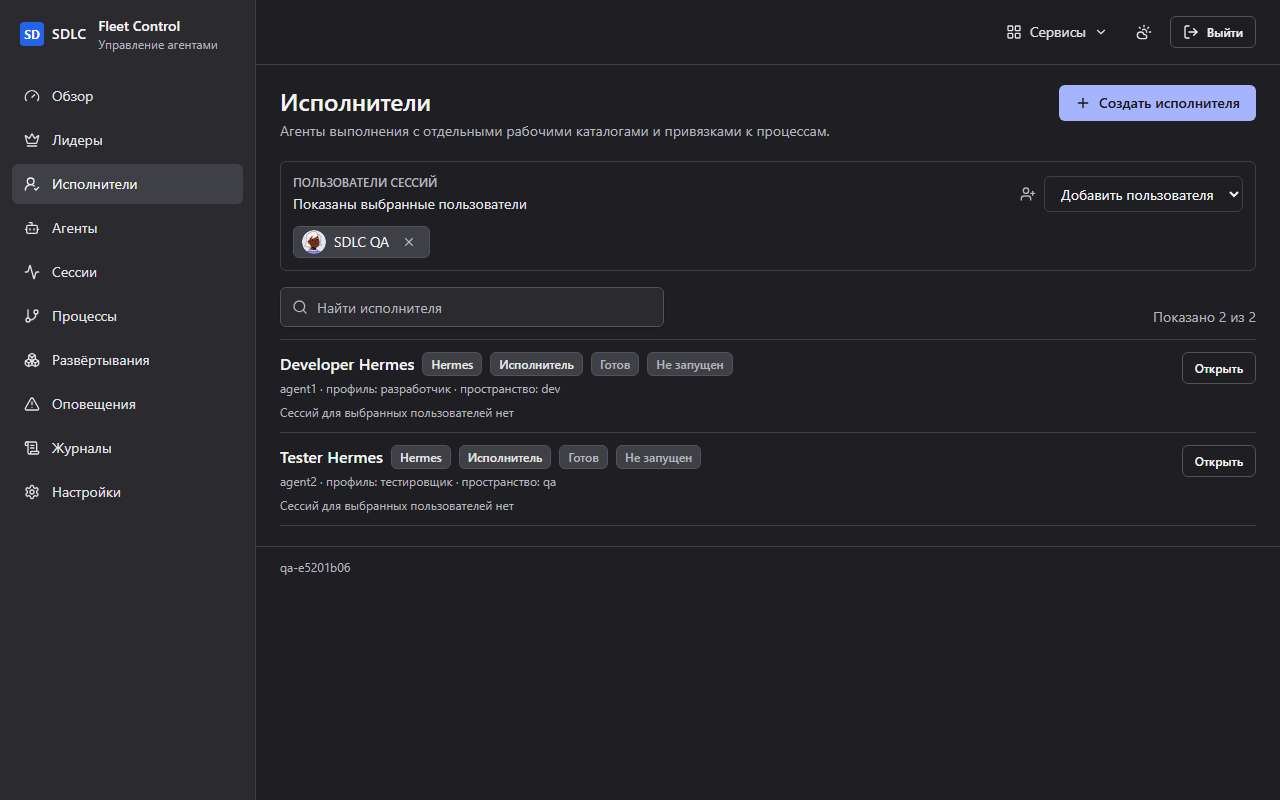
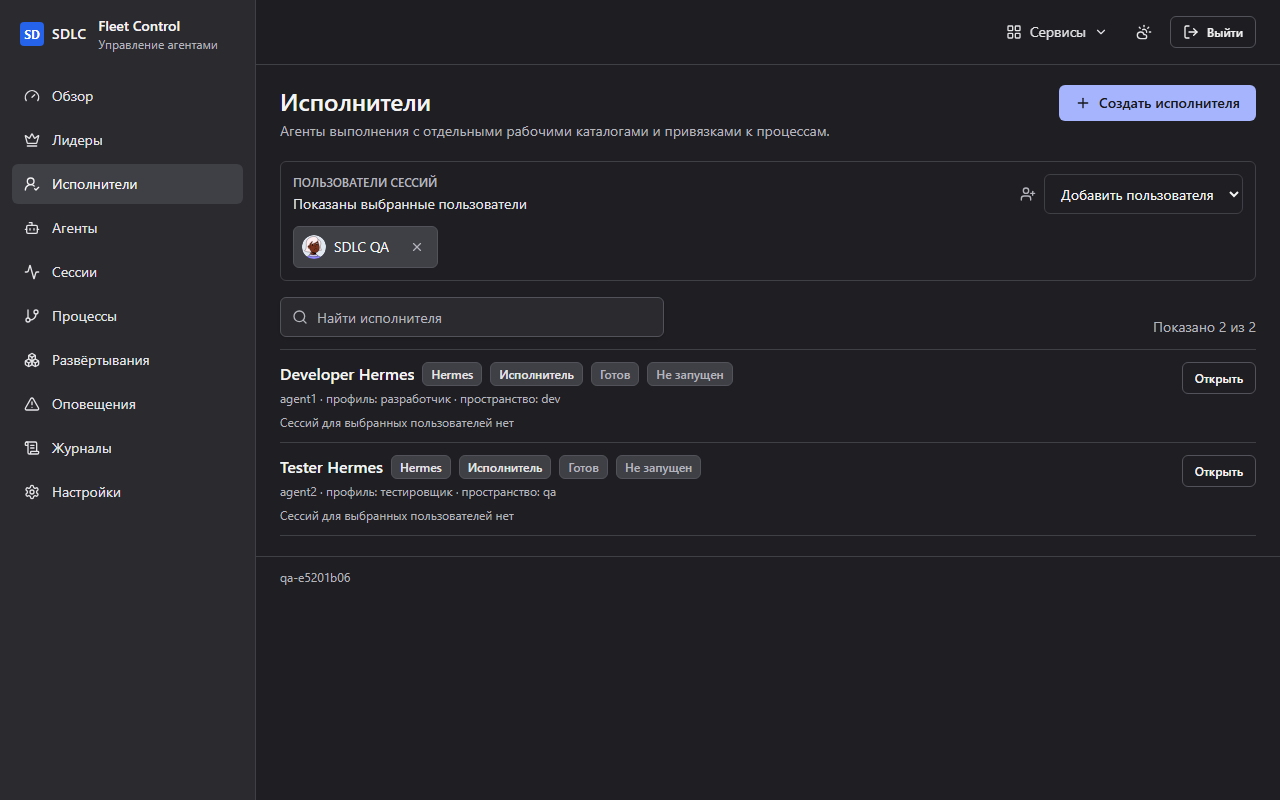
fix(fleet): enlarge executor touch targets

Changed region(s): [[0.2188, 0.2812, 0.9688, 0.75], [0.9062, 0.375, 0.9688, 0.5], [0.9375, 0.5312, 0.9688, 0.625]]

diff --git a/frontend/src/shared/session-user-filter.tsx b/frontend/src/shared/session-user-filter.tsx
@@ -109,7 +109,7 @@ export function SessionUserFilter({
               filter.addUser(event.target.value)
               event.currentTarget.value = ''
             }}
-            className="h-9 min-w-0 rounded-md border border-border bg-background px-3 text-sm text-text-primary disabled:opacity-60"
+            className="h-10 min-w-0 rounded-md border border-border bg-background px-3 text-sm text-text-primary disabled:opacity-60"
           >
             <option value="">{t('sessionFilter.add')}</option>
             {availableUsers.map((user) => (
@@ -125,7 +125,7 @@ export function SessionUserFilter({
           filter.selectedUsers.map((user) => (
             <span
               key={user.id}
-              className="inline-flex min-h-8 max-w-full items-center gap-2 rounded-md border border-border-strong bg-surface-raised px-2 text-sm text-text-primary"
+              className="inline-flex min-h-10 max-w-full items-center gap-2 rounded-md border border-border-strong bg-surface-raised pl-2 text-sm text-text-primary"
             >
               <UserAvatar name={user.display_name} userId={user.id} />
               <span className="min-w-0 truncate">{user.display_name}</span>
@@ -134,7 +134,7 @@ export function SessionUserFilter({
                 aria-label={t('sessionFilter.remove', { name: user.display_name })}
                 onClick={() => filter.removeUser(user.id)}
                 disabled={!filter.isSystemAdmin}
-                className="inline-flex h-6 w-6 shrink-0 items-center justify-center rounded-md text-text-muted hover:bg-border hover:text-text-primary disabled:cursor-not-allowed disabled:opacity-40"
+                className="inline-flex h-10 w-10 shrink-0 items-center justify-center rounded-md text-text-muted hover:bg-border hover:text-text-primary disabled:cursor-not-allowed disabled:opacity-40"
               >
                 <X className="h-3.5 w-3.5" />
               </button>

diff --git a/frontend/src/pages/executors/index.tsx b/frontend/src/pages/executors/index.tsx
@@ -136,7 +136,7 @@ function ExecutorRow({
     <li className="min-w-0 py-3">
       <div className="flex min-w-0 flex-wrap items-start justify-between gap-3">
         <AgentIdentity agent={executor} />
-        <Button asChild variant="outline" size="sm">
+        <Button asChild variant="outline" size="sm" className="min-h-10">
           <Link to={`/executors/${executor.id}`}>{t('executors.open')}</Link>
         </Button>
       </div>
@@ -144,7 +144,7 @@ function ExecutorRow({
         <p className="mt-2 text-xs text-text-muted">{t('executors.loadingSessions')}</p>
       ) : sessions.length ? (
         <details className="mt-2 group">
-          <summary className="w-fit cursor-pointer text-sm text-accent underline-offset-2 hover:underline focus-visible:outline focus-visible:outline-2 focus-visible:outline-offset-2 focus-visible:outline-focus">
+          <summary className="inline-flex min-h-10 cursor-pointer items-center text-sm text-accent underline-offset-2 hover:underline focus-visible:outline focus-visible:outline-2 focus-visible:outline-offset-2 focus-visible:outline-focus">
             {t('executors.sessionsCount', { count: sessions.length })}
           </summary>
           <div className="mt-2 grid gap-1 sm:grid-cols-2 xl:grid-cols-3">
@@ -188,7 +188,7 @@ function SessionPreview({ session }: { session: AgentSession }) {
   return (
     <Link
       to={`/sessions/${session.id}`}
-      className="flex min-w-0 items-center gap-2 rounded-md px-2 py-1.5 hover:bg-surface-raised focus-visible:outline focus-visible:outline-2 focus-visible:outline-focus"
+      className="flex min-h-10 min-w-0 items-center gap-2 rounded-md px-2 py-1.5 hover:bg-surface-raised focus-visible:outline focus-visible:outline-2 focus-visible:outline-focus"
     >
       <UserAvatar name={session.user_display_name} userId={session.user_id} />
       <span className="min-w-0 flex-1">
